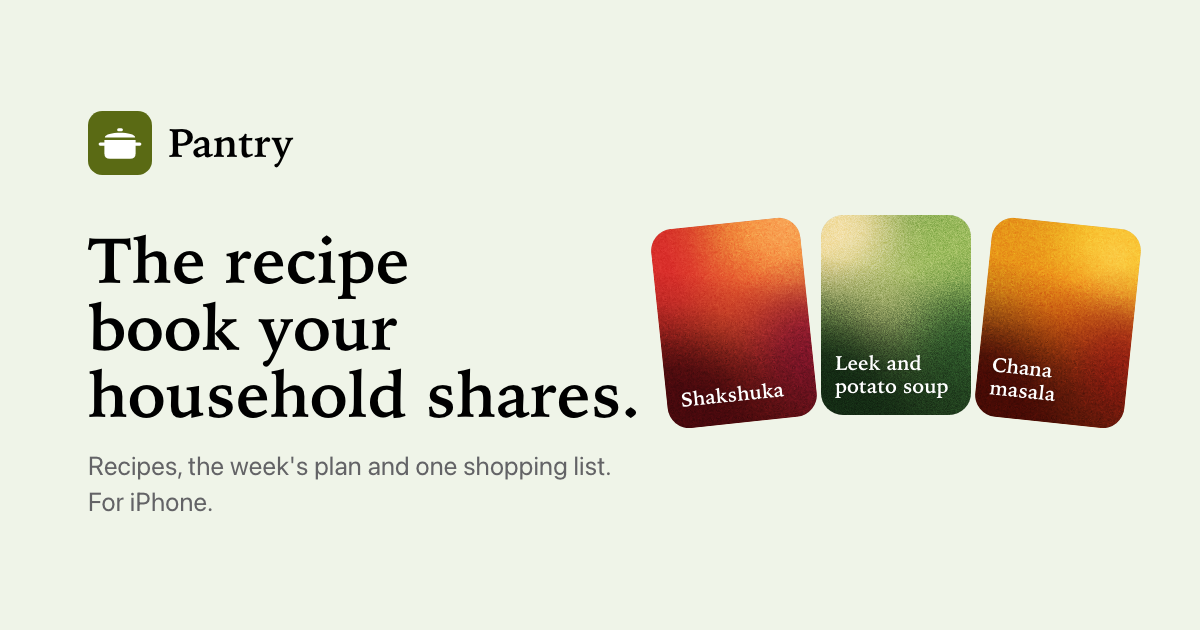
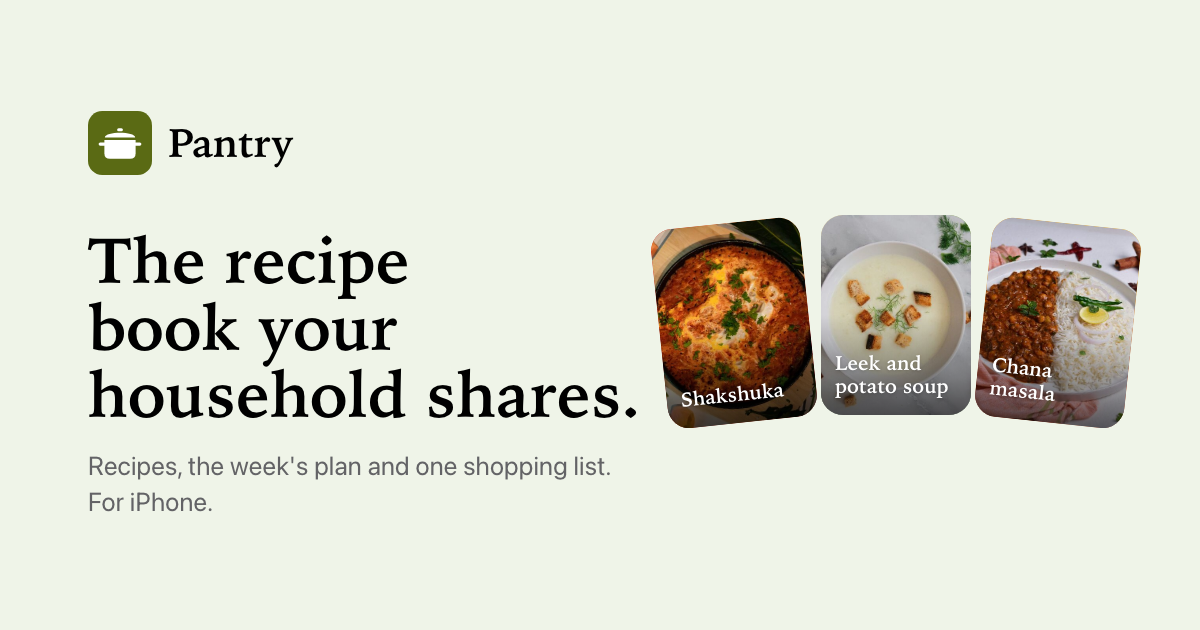
feat: show the built-in recipes' real photos in the phone mock-ups (#1)
* feat: show the built-in recipes' real photos in the phone mock-ups

The collections shelf and the week's plan drew generated covers for
Shakshuka, Leek and potato soup and Chana masala. They now show those
recipes' photos from the app, as small square copies in assets/ at about
twice their shown size, with all metadata stripped. Served from this
site, so the page still loads nothing from another site.

The hero keeps its three generated covers: it is the app's first-run art
(CoverFan), which still draws them, and it illustrates the sentence about
recipes without a photo.

* feat: show the built-in recipes' photos in the hero and the share image

The hero's fanned covers and the share image showed generated gradient
covers. They now show the photos of the same three built-in recipes,
3:4 crops at 380x507, with a dark foot so the titles stay readable.

---------

Changed region(s): [[0.5242, 0.3317, 0.9558, 0.6937]]

diff --git a/assets/site.css b/assets/site.css
@@ -11,6 +11,7 @@
   --on-action: #ffffff;
   --today: #d70015;
   --todo: #ffe066;
+  --art-line: rgba(0, 0, 0, 0.07);
   --serif: ui-serif, "New York", "Iowan Old Style", Charter, "Bitstream Charter", "Sitka Text", Cambria, Georgia, serif;
   --sans: system-ui, -apple-system, BlinkMacSystemFont, "Segoe UI", Roboto, "Helvetica Neue", Arial, sans-serif;
   --gutter: clamp(16px, 5vw, 56px);
@@ -29,6 +30,7 @@
     --on-action: #1c1c1e;
     --today: #ff6961;
     --todo: #ffd60a;
+    --art-line: rgba(255, 255, 255, 0.08);
   }
 }
 
@@ -127,7 +129,7 @@ mark.todo::after { content: "]"; }
   .hero { grid-template-columns: minmax(0, 1fr) minmax(0, 1.05fr); }
 }
 
-/* The app's first-run art: three generated covers, fanned (components/CoverFan.tsx). */
+/* The app's first-run art (three covers, fanned), here with the built-in recipes' photos (components/CoverFan.tsx). */
 .fan { container-type: inline-size; }
 .fan-stage { --w: min(190px, 30cqi); position: relative; height: calc(var(--w) * 1.62); }
 .fan .cover {
@@ -159,9 +161,17 @@ mark.todo::after { content: "]"; }
   background: url(grain.png) repeat; background-size: 128px;
   opacity: 0.3; mix-blend-mode: overlay;
 }
+
+/* A cover with a built-in recipe's photo: the photo under the title, darkened at the foot so the title reads. */
+.photo-cover > img { position: absolute; inset: 0; z-index: -1; width: 100%; height: 100%; object-fit: cover; }
+.photo-cover::after { z-index: -1; background: linear-gradient(to top, rgba(0, 0, 0, 0.6), rgba(0, 0, 0, 0) 50%); opacity: 1; mix-blend-mode: normal; }
 .cover.c1 { background-color: #C43B1E; background-image: linear-gradient(11deg, #47090De6 0%, #47090D59 42%, #47090D00 70%), radial-gradient(96% 68% at 0% 104%, #47090Dff 36.6%, #47090Dd6 52.4%, #47090D7f 68.3%, #47090D29 84.1%, #47090D00 100%), radial-gradient(68.19% 57.64% at 102.69% 75.94%, #9D1D39fa 17.4%, #9D1D39d2 38.0%, #9D1D397d 58.7%, #9D1D3928 79.3%, #9D1D3900 100%), radial-gradient(64.49% 48.64% at 54.91% 56.58%, #E84F2Fef 8.1%, #E84F2Fc9 31.1%, #E84F2F77 54.0%, #E84F2F26 77.0%, #E84F2F00 100%), radial-gradient(43.08% 37.39% at 89.45% 4.38%, #FFC37D73 0.0%, #FFC37D61 3.1%, #FFC37D3a 35.4%, #FFC37D12 67.7%, #FFC37D00 100%), radial-gradient(78.97% 60.63% at 88.50% 5.09%, #F48E3Bfe 25.5%, #F48E3Bd5 44.1%, #F48E3B7f 62.8%, #F48E3B29 81.4%, #F48E3B00 100%), radial-gradient(76.25% 58.77% at 9.71% 24.66%, #D92F2Bfd 23.0%, #D92F2Bd5 42.2%, #D92F2B7f 61.5%, #D92F2B29 80.7%, #D92F2B00 100%); }
 .cover.c2 { background-color: #7DA152; background-image: linear-gradient(11deg, #142B14e6 0%, #142B1459 42%, #142B1400 70%), radial-gradient(96% 68% at 0% 104%, #142B14ff 36.6%, #142B14d6 52.4%, #142B147f 68.3%, #142B1429 84.1%, #142B1400 100%), radial-gradient(71.61% 60.21% at 100.06% 78.12%, #3A6933fd 21.1%, #3A6933d4 40.8%, #3A69337e 60.6%, #3A693328 80.3%, #3A693300 100%), radial-gradient(60.83% 46.48% at 42.42% 53.23%, #C5CB7Fe4 3.1%, #C5CB7Fc0 27.3%, #C5CB7F72 51.5%, #C5CB7F25 75.8%, #C5CB7F00 100%), radial-gradient(43.20% 37.46% at 20.13% 12.30%, #FAEEC674 0.0%, #FAEEC662 3.3%, #FAEEC63a 35.5%, #FAEEC613 67.8%, #FAEEC600 100%), radial-gradient(71.42% 55.70% at 1.39% 6.00%, #EFD897fb 18.2%, #EFD897d3 38.6%, #EFD8977e 59.1%, #EFD89728 79.5%, #EFD89700 100%), radial-gradient(69.63% 54.46% at 88.32% 20.39%, #9BBB5Dfa 16.2%, #9BBB5Dd2 37.1%, #9BBB5D7d 58.1%, #9BBB5D28 79.0%, #9BBB5D00 100%); }
 .cover.c3 { background-color: #DE8A1F; background-image: linear-gradient(11deg, #470B05e6 0%, #470B0559 42%, #470B0500 70%), radial-gradient(96% 68% at 0% 104%, #470B05ff 36.6%, #470B05d6 52.4%, #470B057f 68.3%, #470B0529 84.1%, #470B0500 100%), radial-gradient(68.55% 57.91% at 97.28% 75.21%, #B52A18fb 17.8%, #B52A18d3 38.3%, #B52A187d 58.9%, #B52A1828 79.4%, #B52A1800 100%), radial-gradient(58.78% 45.28% at 51.29% 53.67%, #EE7113dd 0.1%, #EE7113b9 25.1%, #EE71136e 50.0%, #EE711323 75.0%, #EE711300 100%), radial-gradient(44.45% 38.30% at 83.14% 13.98%, #FFD96A80 0.0%, #FFD96A6c 5.7%, #FFD96A40 37.2%, #FFD96A15 68.6%, #FFD96A00 100%), radial-gradient(81.15% 62.06% at 93.06% 8.61%, #F7BD23fe 27.4%, #F7BD23d6 45.5%, #F7BD237f 63.7%, #F7BD2329 81.8%, #F7BD2300 100%), radial-gradient(68.38% 53.64% at 8.29% 22.80%, #E89519f8 14.8%, #E89519d1 36.1%, #E895197c 57.4%, #E8951928 78.7%, #E8951900 100%); }
+
+/* A built-in recipe's photo (components/RecipeImage.tsx): it fills its shape, with a hairline
+   edge so a pale dish doesn't melt into a white cell. */
+.photo { width: 100%; height: auto; object-fit: cover; outline: 1px solid var(--art-line); outline-offset: -1px; }
 
 .feature {
   display: grid; gap: 32px; align-items: center;
@@ -200,7 +210,7 @@ mark.todo::after { content: "]"; }
 .menu .row { --inset: 56px; }
 
 .shelf { display: grid; grid-template-columns: repeat(3, minmax(0, 1fr)); gap: 12px; }
-.shelf .cover { aspect-ratio: 1; border-radius: 18px; }
+.shelf .photo { aspect-ratio: 1; border-radius: 18px; }
 .shelf p { margin: 8px 2px 0; font: 600 0.875rem/1.25 var(--serif); }
 
 .plan .row { --inset: 136px; }
@@ -209,7 +219,6 @@ mark.todo::after { content: "]"; }
 .day b { font-size: 1.25rem; font-weight: 600; }
 .today small, .today b { color: var(--today); }
 .thumb { flex: none; width: 44px; aspect-ratio: 1; border-radius: 12px; }
-.thumb::after { background-size: 64px; }
 
 .list .row { --inset: 56px; }
 .check { flex: none; width: 22px; height: 22px; border-radius: 50%; border: 1.5px solid var(--ink-2); }

diff --git a/index.html b/index.html
@@ -20,7 +20,7 @@
 <meta property="og:image" content="https://thepantryapp.ie/assets/og.png">
 <meta property="og:image:width" content="1200">
 <meta property="og:image:height" content="630">
-<meta property="og:image:alt" content="The Pantry app icon, a white pot on olive, beside three recipe covers.">
+<meta property="og:image:alt" content="The Pantry app icon, a white pot on olive, beside photos of three recipes.">
 <meta name="twitter:card" content="summary_large_image">
 <link rel="stylesheet" href="/assets/site.css">
 </head>
@@ -45,9 +45,9 @@
     </div>
     <div class="fan" aria-hidden="true">
       <div class="fan-stage">
-        <div class="cover c1"><span>Shakshuka</span></div>
-        <div class="cover c3"><span>Chana masala</span></div>
-        <div class="cover c2"><span>Leek and potato soup</span></div>
+        <div class="cover photo-cover c1"><img src="/assets/shakshuka-380.jpg" alt="" width="380" height="507"><span>Shakshuka</span></div>
+        <div class="cover photo-cover c3"><img src="/assets/chana-masala-380.jpg" alt="" width="380" height="507"><span>Chana masala</span></div>
+        <div class="cover photo-cover c2"><img src="/assets/leek-and-potato-soup-380.jpg" alt="" width="380" height="507"><span>Leek and potato soup</span></div>
       </div>
     </div>
   </section>
@@ -69,9 +69,9 @@
           <div class="row"><svg class="glyph" viewBox="0 0 24 24"><path d="M4 20h4L19 9a2.8 2.8 0 0 0-4-4L4 16v4zM13.5 6.5l4 4"/></svg><span class="main">Type It In</span></div>
         </div>
         <div class="shelf">
-          <div><div class="cover c1"></div><p>Weeknights</p></div>
-          <div><div class="cover c2"></div><p>Soups</p></div>
-          <div><div class="cover c3"></div><p>Curry night</p></div>
+          <div><img class="photo" src="/assets/shakshuka-300.jpg" alt="" width="300" height="300"><p>Weeknights</p></div>
+          <div><img class="photo" src="/assets/leek-and-potato-soup-300.jpg" alt="" width="300" height="300"><p>Soups</p></div>
+          <div><img class="photo" src="/assets/chana-masala-300.jpg" alt="" width="300" height="300"><p>Curry night</p></div>
         </div>
       </figure>
     </section>
@@ -85,10 +85,10 @@
       <figure role="img" aria-label="A week in Pantry's plan. Today, Monday: chana masala for dinner, 4 servings. Tuesday: leftovers of the chana masala. Wednesday: leek and potato soup. Thursday: shakshuka.">
         <div class="group plan">
           <p class="group-head">This week</p>
-          <div class="row"><span class="day today"><small>Today</small><b>17</b></span><div class="cover thumb c3"></div><span class="main">Chana masala<span class="sub">Dinner · 4 servings</span></span></div>
-          <div class="row"><span class="day"><small>Tue</small><b>18</b></span><div class="cover thumb c3"></div><span class="main">Leftovers · Chana masala<span class="sub">from Mon · Dinner</span></span></div>
-          <div class="row"><span class="day"><small>Wed</small><b>19</b></span><div class="cover thumb c2"></div><span class="main">Leek and potato soup<span class="sub">Dinner · Ciarán</span></span></div>
-          <div class="row"><span class="day"><small>Thu</small><b>20</b></span><div class="cover thumb c1"></div><span class="main">Shakshuka<span class="sub">Dinner · Aoife</span></span></div>
+          <div class="row"><span class="day today"><small>Today</small><b>17</b></span><img class="photo thumb" src="/assets/chana-masala-96.jpg" alt="" width="96" height="96"><span class="main">Chana masala<span class="sub">Dinner · 4 servings</span></span></div>
+          <div class="row"><span class="day"><small>Tue</small><b>18</b></span><img class="photo thumb" src="/assets/chana-masala-96.jpg" alt="" width="96" height="96"><span class="main">Leftovers · Chana masala<span class="sub">from Mon · Dinner</span></span></div>
+          <div class="row"><span class="day"><small>Wed</small><b>19</b></span><img class="photo thumb" src="/assets/leek-and-potato-soup-96.jpg" alt="" width="96" height="96"><span class="main">Leek and potato soup<span class="sub">Dinner · Ciarán</span></span></div>
+          <div class="row"><span class="day"><small>Thu</small><b>20</b></span><img class="photo thumb" src="/assets/shakshuka-96.jpg" alt="" width="96" height="96"><span class="main">Shakshuka<span class="sub">Dinner · Aoife</span></span></div>
         </div>
       </figure>
     </section>

diff --git a/scripts/og.html b/scripts/og.html
@@ -24,9 +24,9 @@
   </div>
   <div class="fan">
     <div class="fan-stage">
-      <div class="cover c1"><span>Shakshuka</span></div>
-      <div class="cover c3"><span>Chana masala</span></div>
-      <div class="cover c2"><span>Leek and potato soup</span></div>
+      <div class="cover photo-cover c1"><img src="../assets/shakshuka-380.jpg" alt="" width="380" height="507"><span>Shakshuka</span></div>
+      <div class="cover photo-cover c3"><img src="../assets/chana-masala-380.jpg" alt="" width="380" height="507"><span>Chana masala</span></div>
+      <div class="cover photo-cover c2"><img src="../assets/leek-and-potato-soup-380.jpg" alt="" width="380" height="507"><span>Leek and potato soup</span></div>
     </div>
   </div>
 </body>

diff --git a/README.md b/README.md
@@ -10,4 +10,4 @@ The website for Pantry, a shared recipe book and meal planner for households on 
 - **Icons and the share image**: `sh scripts/make-images.sh` rebuilds `favicon.ico`, `apple-touch-icon.png` and `assets/og.png` from `assets/icon.svg` and `scripts/og.html`. Needs rsvg-convert, ImageMagick and Chrome.
 - **Screenshots**: `python3 -m http.server 8765` in one shell, then `sh scripts/screenshots.sh` writes `.screenshots/` (git-ignored).
 
-The colours, type and the three recipe covers come from the app's design system (`DESIGN.md`, `constants/theme.ts` and `components/RecipeCover.tsx` in the app repo).
+The colours, type and the hero's three generated covers come from the app's design system (`DESIGN.md`, `constants/theme.ts` and `components/RecipeCover.tsx` in the app repo). The recipe photos in `assets/` are small copies of the app's built-in recipe photos (`supabase/seed/curated-photos/` in the app repo, whose `sources.json` and README say where each came from and how they were made).
